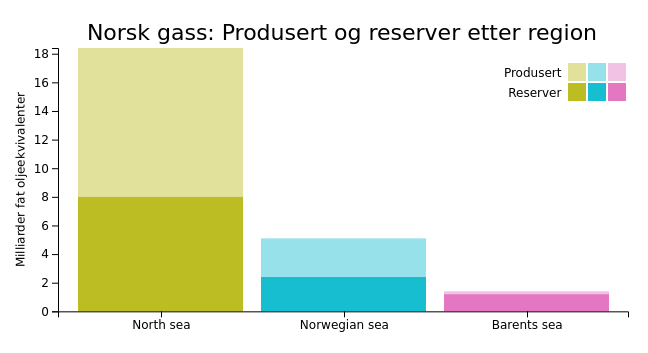
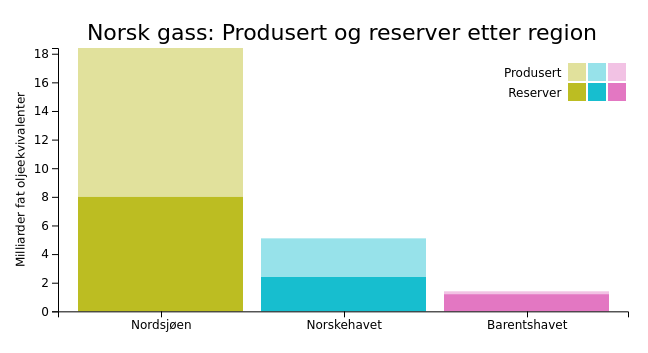
Norwegian names...

Changed region(s): [[0.7407, 0.9037, 0.8951, 0.9348], [0.463, 0.9037, 0.6173, 0.9348], [0.1852, 0.9037, 0.3086, 0.9348]]

diff --git a/vis/cumulative_produced_and_reserves.js b/vis/cumulative_produced_and_reserves.js
@@ -24,8 +24,14 @@ function show_resource(unit_key, resource, group, unit, file) {
 
   d3.csv(file,
     function (d) {
+      var translate = {
+        'Norwegian sea': 'Norskehavet',
+        'North sea': 'Nordsjøen',
+        'Barents sea': 'Barentshavet'
+      };
+
       return {
-        'name': d['name'],
+        'name': d['name'] in translate ? translate[d['name']] : d['name'],
         'origRecoverable': +d['origRecoverable' + unit_key],
         'produced': +d['origRecoverable' + unit_key] - +d['remaining' + unit_key],
         'remaining': +d['remaining' + unit_key],
@@ -180,5 +186,5 @@ var m = {
   }
 };
 
-var mode = findGetParameter('mode', 'oil');
+var mode = findGetParameter('mode', 'oil_region');
 show_resource(m[mode].unit_key, m[mode].title, m[mode].group, m[mode].unit, m[mode].filename);
